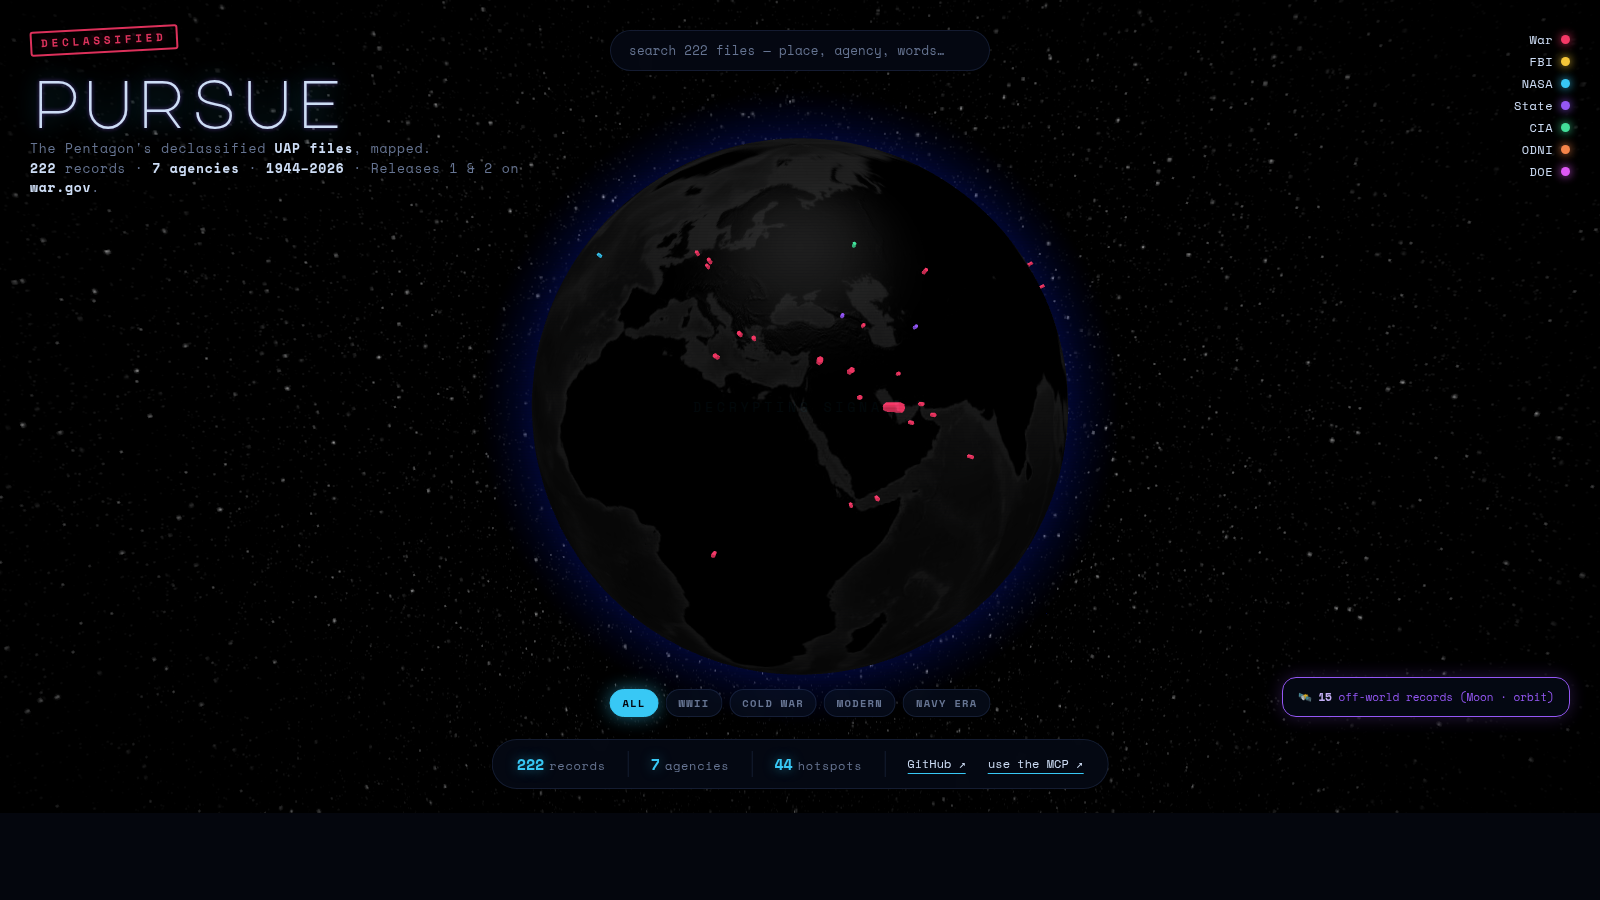
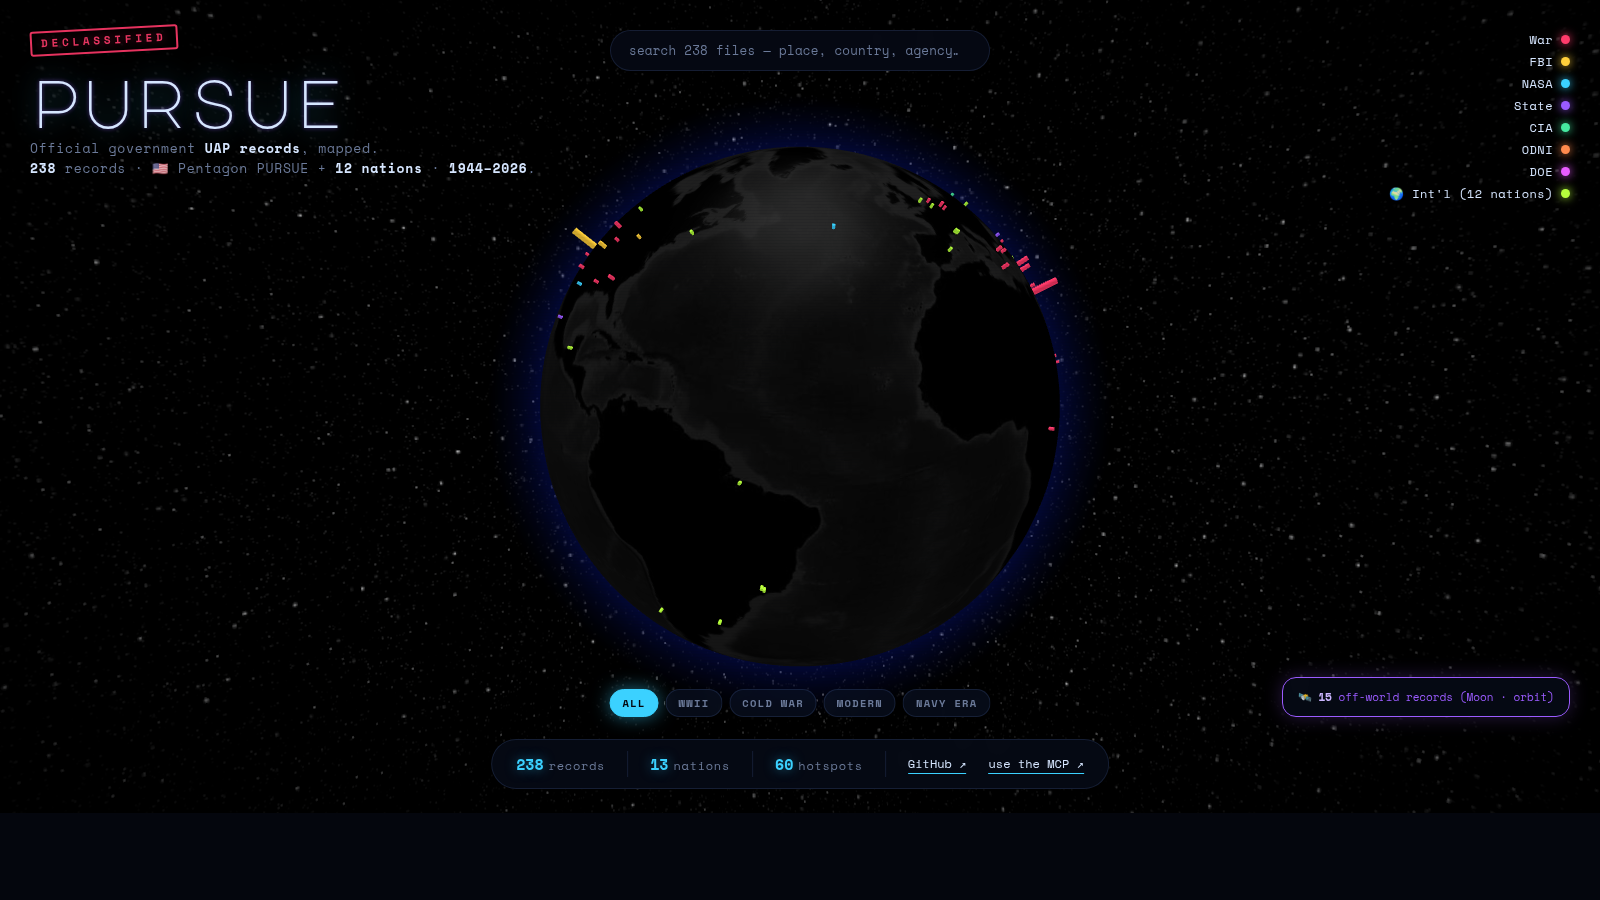
site: world-centric default view (shows the Americas incl. Brazil) + og.png world map

diff --git a/site/index.html b/site/index.html
@@ -342,7 +342,7 @@ fetch('sightings.json').then(r=>r.json()).then(db=>{
     .onPointClick(openLocation)
     .pointsMerge(false).pointResolution(6);
   world.controls().autoRotate=true; world.controls().autoRotateSpeed=0.42; world.controls().enableDamping=true;
-  world.pointOfView({lat:28,lng:35,altitude:2.4},0);
+  world.pointOfView({lat:12,lng:-38,altitude:2.5},0);
   document.getElementById('cRecords').textContent = DB.sightings.length;
   buildLegend(); buildEras(); buildOffworld(); refresh();
   document.getElementById('q').addEventListener('input', e=>{ searchQuery = e.target.value.toLowerCase().trim(); refresh(); });